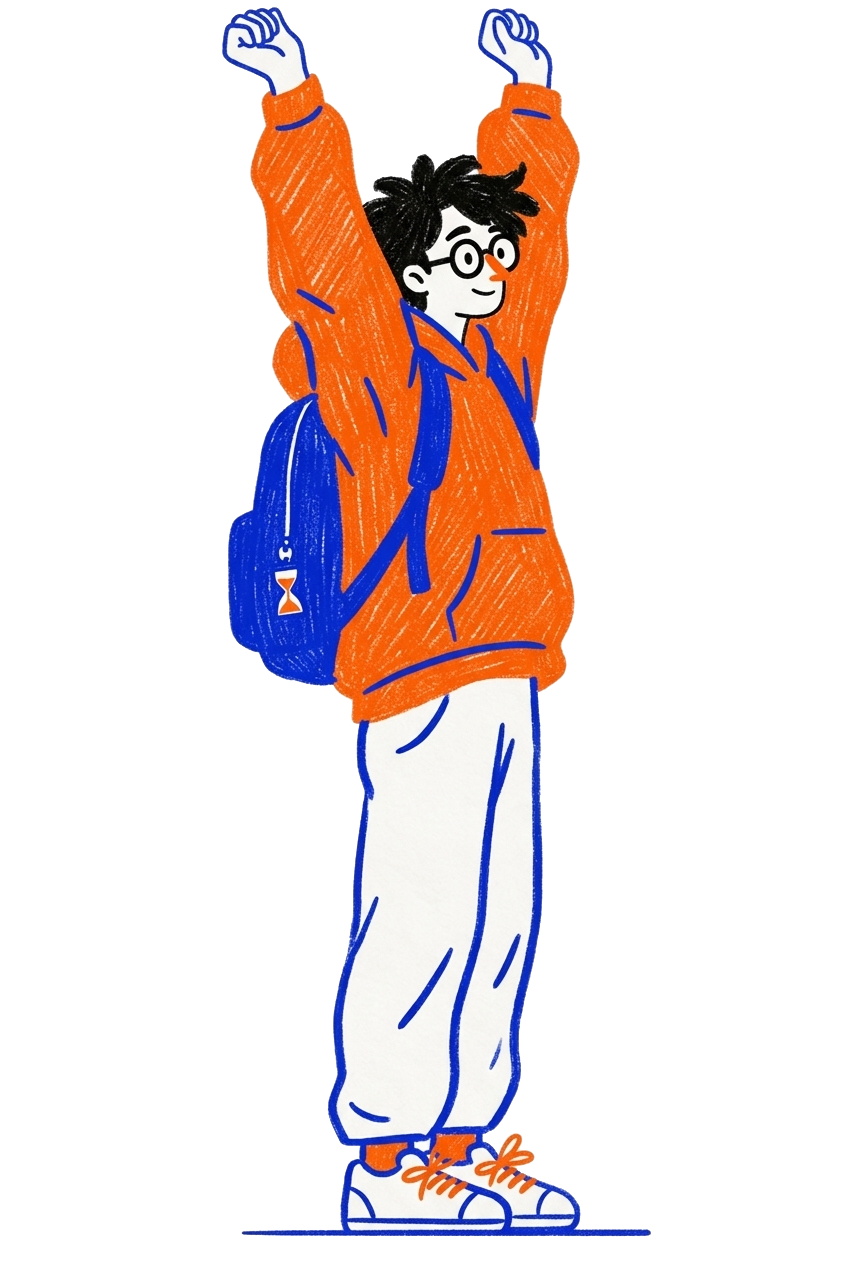
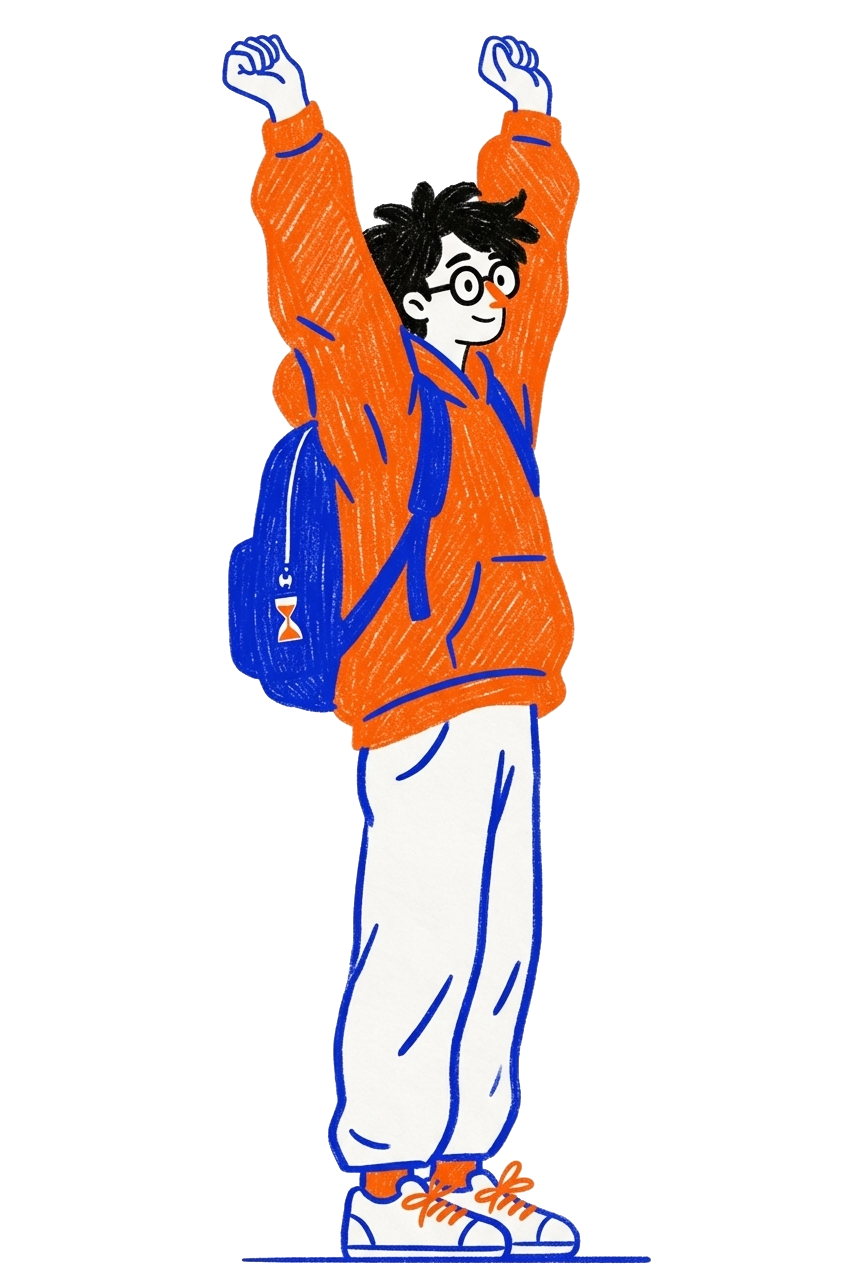
Estandarizar tamano del personaje en toda la secuencia y alinear apoyo al suelo

Changed region(s): [[0.2453, 0.0, 0.7665, 1.0]]

diff --git a/style.css b/style.css
@@ -1183,11 +1183,18 @@ h4, strong, b { font-weight: 700; }
 .vd-personaje {
     position: absolute; z-index: 3; pointer-events: none;
     left: var(--vd-pj-x); bottom: calc(var(--vd-suelo-alto) - 3%);
-    height: 52%; aspect-ratio: 600 / 900; transform: translateX(-50%);
+    height: 52%; transform: translateX(-50%);
 }
-.vd-pj-slot { position: absolute; inset: 0; opacity: 0; transition: opacity 0.45s ease; }
+.vd-pj-slot {
+    position: absolute; bottom: 0; left: 50%; transform: translateX(-50%);
+    height: 100%; width: max-content; opacity: 0; transition: opacity 0.45s ease;
+}
 .vd-pj-slot.activo { opacity: 1; }
-.vd-pj-slot .vd-img { width: 100%; height: 100%; }
+.vd-pj-slot .vd-img { height: 100%; width: auto; aspect-ratio: auto !important; }
+.vd-pj-slot .vd-img img {
+    display: block; height: 100%; width: auto; max-width: none;
+    object-fit: contain; object-position: bottom center;
+}
 .vd-personaje.caminando .vd-pj-slot.activo { animation: vd-caminar 0.5s ease-in-out infinite; }
 @keyframes vd-caminar { 0%, 100% { transform: translateY(0); } 50% { transform: translateY(-6px); } }
 
